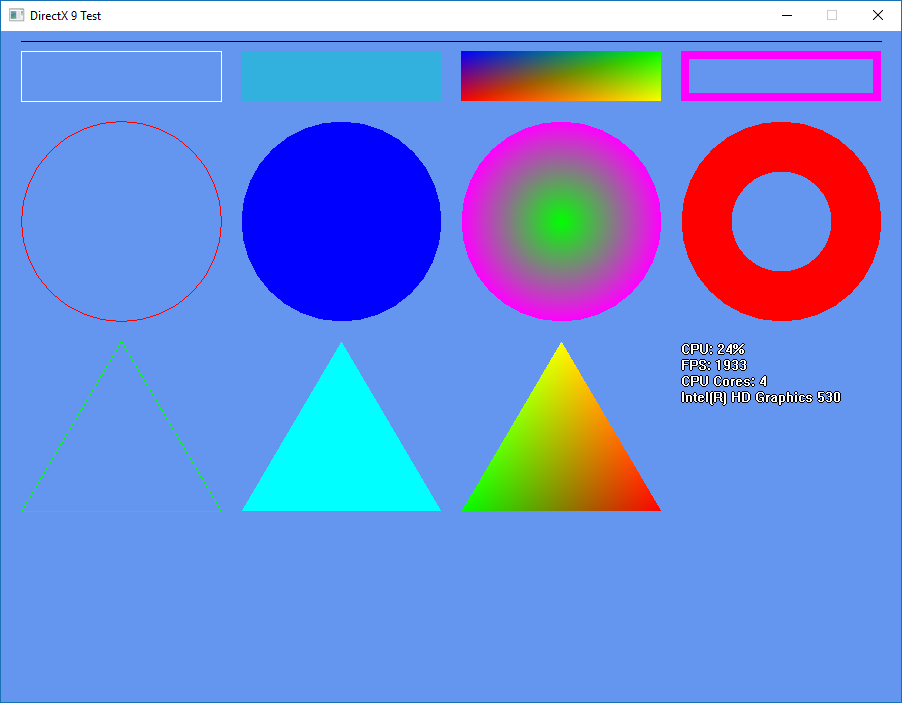
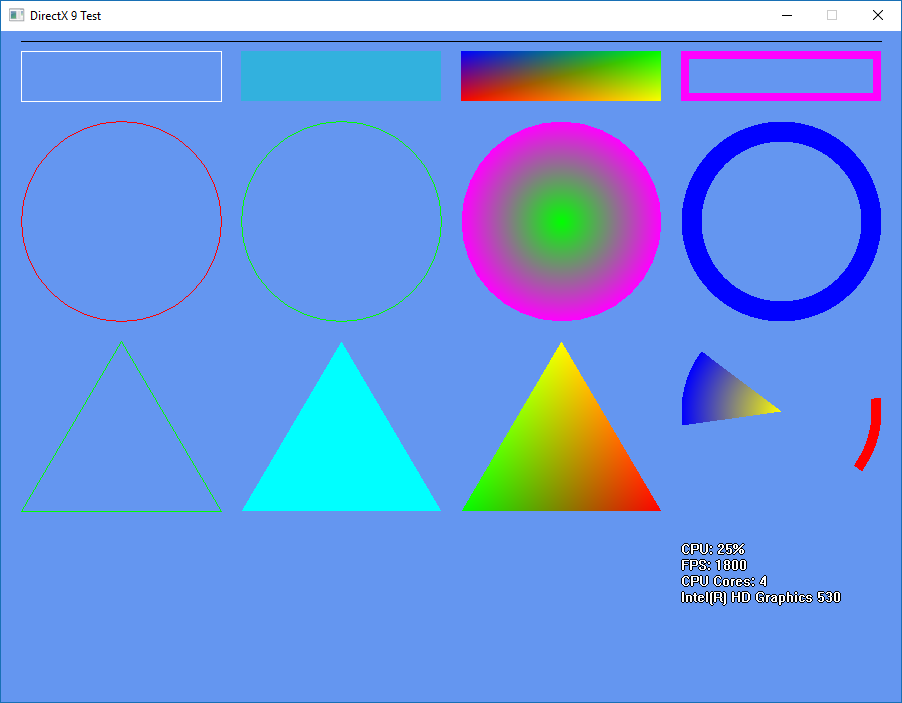
add CircleSector and RingSector

diff --git a/include/renderer.cpp b/include/renderer.cpp
@@ -204,7 +204,7 @@ void cRender::DrawCircle(int16_t x, int16_t y, int16_t radius, uint16_t points, 
 
 	Vertex_t* verticles = new Vertex_t[points + gradient + 1];
 	SinCos_t* pSinCos = GetSinCos(points);
-
+	
 	if (gradient)
 		verticles[0] = Vertex_t(x, y, color2);
 
@@ -227,15 +227,46 @@ void cRender::DrawCircle(int16_t x, int16_t y, int16_t radius, uint16_t points, 
 	delete[] verticles;
 }
 
+void cRender::DrawCircleSector(int16_t x, int16_t y, int16_t radius, uint16_t points, uint16_t angle1, uint16_t angle2, D3DCOLOR color1, D3DCOLOR color2)
+{
+	angle1 += 270;
+	angle2 += 270;
+
+	if (angle1 > angle2)
+		angle2 += 360;
+
+	Vertex_t* verticles = new Vertex_t[points + 2];
+
+	const float stop = 2 * D3DX_PI * float(angle2) / 360.f;
+	verticles[points + 1] = Vertex_t(x + cos(stop) * radius, y + sin(stop) * radius, color1);
+	verticles[0] = Vertex_t(x, y, color2);
+
+	float angle = 2 * D3DX_PI * float(angle1) / 360.f;
+	const float step = ((2 * D3DX_PI * float(angle2) / 360.f) - angle) / points;
+
+	for (uint16_t i = 1; i != points + 1; angle += step, i++)
+		verticles[i] = Vertex_t(x + cos(angle) * radius, y + sin(angle) * radius, color1);
+
+	m_pDevice->DrawPrimitiveUP(D3DPT_TRIANGLEFAN, points, verticles, sizeof(Vertex_t));
+	delete[] verticles;
+}
+
 void cRender::DrawRing(int16_t x, int16_t y, int16_t radius1, int16_t radius2, uint16_t points, uint8_t flags, D3DCOLOR color1, D3DCOLOR color2)
 {
 	if (!(flags & RDT_GRADIENT))
 		color2 = color1;
-		
+
+	if (flags & RDT_OUTLINED)
+	{
+		DrawCircle(x, y, radius1, points, RDT_OUTLINED, color1);
+		DrawCircle(x, y, radius2, points, RDT_OUTLINED, color2);
+		return;
+	}
+
 	const uint8_t modifier = 4;
 	Vertex_t* verticles = new Vertex_t[points * modifier];
 	SinCos_t* pSinCos = GetSinCos(points);
-
+	
 	for (uint16_t i = 0; i < points; i++)
 	{
 		uint16_t it = i * modifier;
@@ -261,6 +292,47 @@ void cRender::DrawRing(int16_t x, int16_t y, int16_t radius1, int16_t radius2, u
 	verticles[points * modifier + 0] = verticles[0];
 	verticles[points * modifier + 1] = verticles[1];
 	
+	m_pDevice->DrawPrimitiveUP(D3DPT_TRIANGLESTRIP, points * modifier, verticles, sizeof(Vertex_t));
+	delete[] verticles;
+}
+
+void cRender::DrawRingSector(int16_t x, int16_t y, int16_t radius1, int16_t radius2, uint16_t points, uint16_t angle1, uint16_t angle2, D3DCOLOR color1, D3DCOLOR color2)
+{
+	angle1 += 270;
+	angle2 += 270;
+
+	if (angle1 > angle2)
+		angle2 += 360;
+
+	const uint8_t modifier = 4;
+	Vertex_t* verticles = new Vertex_t[points * modifier];
+	
+	const float start = 2 * D3DX_PI * float(angle1) / 360.f;
+	const float stop = 2 * D3DX_PI * float(angle2) / 360.f;
+	const float step = (stop - start) / points;
+	
+	SinCos_t sincos[2] = { sin(start), cos(start) };
+
+	for (uint16_t i = 0; i < points; i++)
+	{
+		const uint16_t it = i * modifier;
+
+		const float temp_angle = start + step * i;
+		sincos[!bool(i % 2)] = { sin(temp_angle + step), cos(temp_angle + step) };
+
+		verticles[it] = Vertex_t(x + sincos[0].flCos * radius1, y + sincos[0].flSin * radius1, color1);
+		verticles[it + 1] = Vertex_t(x + sincos[1].flCos * radius2, y + sincos[1].flSin * radius2, color2);
+		verticles[it + 2] = verticles[it];
+		verticles[it + 3] = verticles[it + 1];
+	}
+
+	points--;
+
+	verticles[0] = Vertex_t(x, y, color2);
+	verticles[1] = Vertex_t(x + cos(start) * radius2, y + sin(start) * radius2, color2);
+	verticles[points * modifier + 0] = Vertex_t(x + cos(stop) * radius1 + 1, y + sin(stop) * radius1, color1);
+	verticles[points * modifier + 1] = Vertex_t(x + cos(stop) * radius2 + 1, y + sin(stop) * radius2, color2);
+
 	m_pDevice->DrawPrimitiveUP(D3DPT_TRIANGLESTRIP, points * modifier, verticles, sizeof(Vertex_t));
 	delete[] verticles;
 }

diff --git a/example/main.cpp b/example/main.cpp
@@ -158,14 +158,27 @@ int CALLBACK WinMain(
 			pRender->DrawBox(680, 20, 200, 50, 8, Color::Pink); 
 
 			pRender->DrawCircle(120, 190, 100, 32, 0, Color::Red);
-			pRender->DrawCircle(340, 190, 100, 32, RDT_FILLED, Color::Blue);
+			pRender->DrawCircle(340, 190, 100, 32, 0, Color::Green);
 			pRender->DrawCircle(560, 190, 100, 32, RDT_GRADIENT, Color::Pink, Color::Green);
-			pRender->DrawRing(780, 190, 100, 50, 32, 0, Color::Red);
+
+
+			pRender->DrawRing(780, 190, 100, 80, 64, RDT_FILLED, Color::Blue);
 
 			pRender->DrawTriangle(120, 310, 20, 480, 220, 480, 0, Color::Green);
 			pRender->DrawTriangle(340, 310, 240, 480, 440, 480, RDT_FILLED, Color::SkyBlue);
 			pRender->DrawTriangle(560, 310, 460, 480, 660, 480, RDT_GRADIENT | RDT_FILLED, Color::Yellow, Color::Green, Color::Red);
 			
+			static float time = 0;
+
+			time += 0.1f;
+
+			if (time > 360.f)
+				time -= 360.f;
+
+			pRender->DrawCircleSector(780, 380, 100, 30, time, time + 45, Color::Blue, Color::Yellow);
+			pRender->DrawRingSector(780, 380, 100, 90, 30, time + 180, time + 225, Color::Red, Color::Red);
+
+
 			//text panel
 			{
 				static int cpu_usage = 0;
@@ -179,9 +192,10 @@ int CALLBACK WinMain(
 				last_fps = current_fps;
 
 				pRender->DrawString(
-					680, 310, Color::White,	font1, true, false,
+					680, 510, Color::White,	font1, true, false,
 					"CPU: %i%%\nFPS: %d\nCPU Cores: %i\n%s",
-					cpu_usage, current_fps,	info.dwNumberOfProcessors,
+					cpu_usage, current_fps,	
+					info.dwNumberOfProcessors,
 					AdapterIdentifier.Description);
 			}
 

diff --git a/include/renderer.h b/include/renderer.h
@@ -67,7 +67,9 @@ public:
 	void DrawGradientBox(int16_t x, int16_t y, int16_t width, int16_t height, D3DCOLOR color1 = 0, D3DCOLOR color2 = 0, D3DCOLOR color3 = 0, D3DCOLOR color4 = 0);
 	//use RDT_FILLED for filledcircle, RDT_GRADIENT for gradient circle and RDT_OUTLINED for outlined circle
 	void DrawCircle(int16_t x, int16_t y, int16_t radius, uint16_t points = 32, uint8_t flags = 0, D3DCOLOR color1 = 0xFF, D3DCOLOR color2 = 0);
+	void DrawCircleSector(int16_t x, int16_t y, int16_t radius, uint16_t points, uint16_t angle1, uint16_t angle2, D3DCOLOR color1, D3DCOLOR color2 = 0);
 	void DrawRing(int16_t x, int16_t y, int16_t radius1, int16_t radius2, uint16_t points, uint8_t flags, D3DCOLOR color1, D3DCOLOR color2 = 0);
+	void DrawRingSector(int16_t x, int16_t y, int16_t radius1, int16_t radius2, uint16_t points, uint16_t angle1, uint16_t angle2, D3DCOLOR color1, D3DCOLOR color2 = 0);
 	void DrawTriangle(int16_t x1, int16_t y1, int16_t x2, int16_t y2, int16_t x3, int16_t y3, uint8_t flags = 0, D3DCOLOR color1 = 0xFF, D3DCOLOR color2 = 0, D3DCOLOR color3 = 0);
 	//frames per second
 	int16_t GetFramerate() { return m_iFramerate; }
